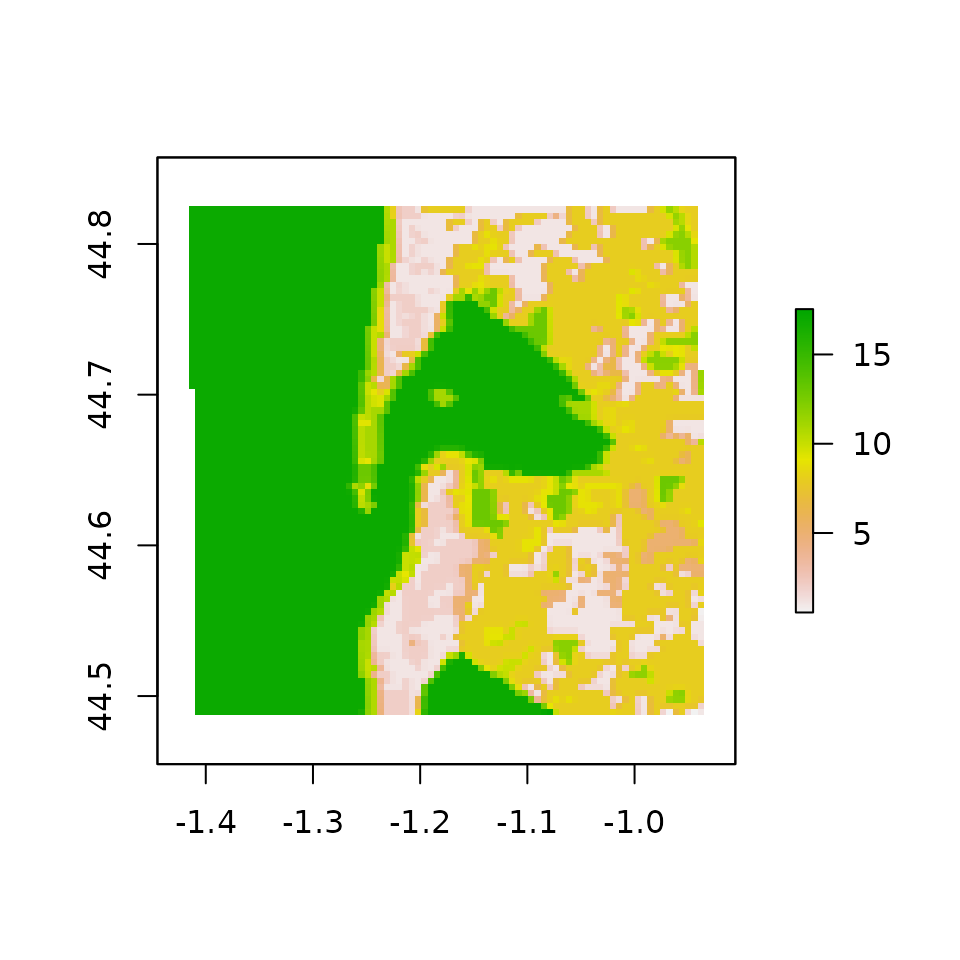
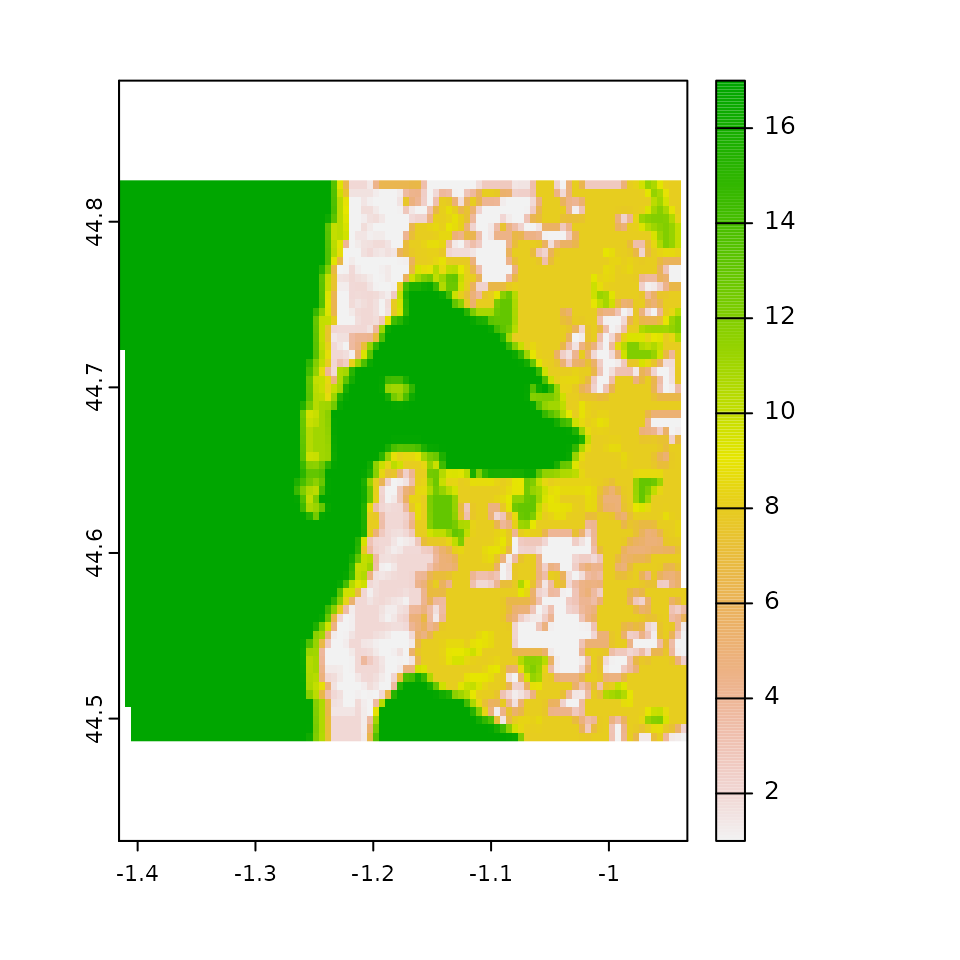
zenodo upload

diff --git a/docs/index.html b/docs/index.html
@@ -48,7 +48,7 @@
         <a class="external-link hidden-md hidden-lg" href="https://bluegreenlabs.org">
           <img src="https://bluegreenlabs.org/img/logo.png" id="hexlogo" alt="bluegreen labs"></a>
         <a class="navbar-brand" href="index.html">
-           <i>MODISTools <small>v1.1.3</small></i>
+           <i>MODISTools <small>v1.1.4</small></i>
         </a>
       </div>
     </div>
@@ -95,10 +95,12 @@
 <div class="page-header"><h1 id="modistools-">MODISTools <a href="https://github.com/ropensci/MODISTools" class="external-link"><img src="https://raw.githubusercontent.com/bluegreen-labs/MODISTools/master/MODISTools-logo.png" align="right" height="139"></a>
 <a class="anchor" aria-label="anchor" href="#modistools-"></a>
 </h1></div>
-<!-- badges: start -->
-
-<p>Programmatic interface to the <a href="https://modis.ornl.gov/data/modis_webservice.html" class="external-link">‘MODIS Land Products Subsets’ web services</a>. Allows for easy downloads of <a href="http://modis.gsfc.nasa.gov/" class="external-link">‘MODIS’</a> time series directly to your R workspace or your computer. When using the package please cite the manuscript as referenced below. Keep in mind that the original manuscript describes versions prior to release 1.0 of the package. Functions described in this manuscript do not exist in the current package, please consult <a href="https://bluegreen-labs.github.io/MODISTools/" class="external-link">the documentation</a> to find matching functionality.</p>
-<p>Please cite the package in your work as: &gt; Hufkens (2022). The MODISTools package: an interface to the MODIS Land Products Subsets Web Services <a href="https://github.com/bluegreen-labs/MODISTools" class="external-link uri">https://github.com/bluegreen-labs/MODISTools</a></p>
+<p><a href="https://github.com/bluegreen-labs/MODISTools/actions" class="external-link"><img src="https://github.com/bluegreen-labs/MODISTools/workflows/R-CMD-check/badge.svg" alt="R build status"></a> <a href="https://app.codecov.io/gh/bluegreen-labs/MODISTools/tree/main/R" class="external-link"><img src="https://codecov.io/gh/bluegreen-labs/MODISTools/branch/main/graph/badge.svg" alt="codecov"></a> <img src="https://www.r-pkg.org/badges/version/MODISTools" alt="Status"><img src="https://cranlogs.r-pkg.org/badges/grand-total/MODISTools" alt="Downloads"><a href="https://doi.org/10.5281/zenodo.7551165" class="external-link"><img src="https://zenodo.org/badge/DOI/10.5281/zenodo.7551165.svg" alt="DOI"></a></p>
+<p>Programmatic interface to the <a href="https://modis.ornl.gov/data/modis_webservice.html" class="external-link">‘MODIS Land Products Subsets’ web services</a>. Allows for easy downloads of <a href="https://modis.gsfc.nasa.gov/" class="external-link">‘MODIS’</a> time series directly to your R workspace or your computer. When using the package please cite the manuscript as referenced below. Keep in mind that the original manuscript describes versions prior to release 1.0 of the package. Functions described in this manuscript do not exist in the current package, please consult <a href="https://bluegreen-labs.github.io/MODISTools/" class="external-link">the documentation</a> to find matching functionality.</p>
+<p>Please cite the package in your work as:</p>
+<blockquote>
+<p>Koen Hufkens. (2023). bluegreen-labs/MODISTools: MODISTools v1.1.4 (CRAN release) (v1.1.4). Zenodo. <a href="https://doi.org/10.5281/zenodo.7551164" class="external-link uri">https://doi.org/10.5281/zenodo.7551164</a></p>
+</blockquote>
 <div class="section level2">
 <h2 id="installation">Installation<a class="anchor" aria-label="anchor" href="#installation"></a>
 </h2>
@@ -215,30 +217,7 @@ detailed parameter description (click to expand)
 <span>                    site_name <span class="op">=</span> <span class="st">"testsite"</span>,</span>
 <span>                    internal <span class="op">=</span> <span class="cn">TRUE</span>,</span>
 <span>                    progress <span class="op">=</span> <span class="cn">FALSE</span><span class="op">)</span></span>
-<span><span class="fu"><a href="https://rdrr.io/r/base/print.html" class="external-link">print</a></span><span class="op">(</span><span class="fu"><a href="https://rdrr.io/r/utils/str.html" class="external-link">str</a></span><span class="op">(</span><span class="va">subset</span><span class="op">)</span><span class="op">)</span></span>
-<span><span class="co">#&gt; 'data.frame':    36 obs. of  21 variables:</span></span>
-<span><span class="co">#&gt;  $ xllcorner    : chr  "-9370963.05" "-9370963.05" "-9370963.05" "-9370963.05" ...</span></span>
-<span><span class="co">#&gt;  $ yllcorner    : chr  "4445948.79" "4445948.79" "4445948.79" "4445948.79" ...</span></span>
-<span><span class="co">#&gt;  $ cellsize     : chr  "926.625433055834" "926.625433055834" "926.625433055834" "926.625433055834" ...</span></span>
-<span><span class="co">#&gt;  $ nrows        : int  3 3 3 3 3 3 3 3 3 3 ...</span></span>
-<span><span class="co">#&gt;  $ ncols        : int  3 3 3 3 3 3 3 3 3 3 ...</span></span>
-<span><span class="co">#&gt;  $ band         : chr  "LST_Day_1km" "LST_Day_1km" "LST_Day_1km" "LST_Day_1km" ...</span></span>
-<span><span class="co">#&gt;  $ units        : chr  "Kelvin" "Kelvin" "Kelvin" "Kelvin" ...</span></span>
-<span><span class="co">#&gt;  $ scale        : chr  "0.02" "0.02" "0.02" "0.02" ...</span></span>
-<span><span class="co">#&gt;  $ latitude     : num  40 40 40 40 40 40 40 40 40 40 ...</span></span>
-<span><span class="co">#&gt;  $ longitude    : num  -110 -110 -110 -110 -110 -110 -110 -110 -110 -110 ...</span></span>
-<span><span class="co">#&gt;  $ site         : chr  "testsite" "testsite" "testsite" "testsite" ...</span></span>
-<span><span class="co">#&gt;  $ product      : chr  "MOD11A2" "MOD11A2" "MOD11A2" "MOD11A2" ...</span></span>
-<span><span class="co">#&gt;  $ start        : chr  "2004-01-01" "2004-01-01" "2004-01-01" "2004-01-01" ...</span></span>
-<span><span class="co">#&gt;  $ end          : chr  "2004-02-01" "2004-02-01" "2004-02-01" "2004-02-01" ...</span></span>
-<span><span class="co">#&gt;  $ complete     : logi  TRUE TRUE TRUE TRUE TRUE TRUE ...</span></span>
-<span><span class="co">#&gt;  $ modis_date   : chr  "A2004001" "A2004009" "A2004017" "A2004025" ...</span></span>
-<span><span class="co">#&gt;  $ calendar_date: chr  "2004-01-01" "2004-01-09" "2004-01-17" "2004-01-25" ...</span></span>
-<span><span class="co">#&gt;  $ tile         : chr  "h09v05" "h09v05" "h09v05" "h09v05" ...</span></span>
-<span><span class="co">#&gt;  $ proc_date    : chr  "2020168005635" "2020168010833" "2020168012220" "2020168013617" ...</span></span>
-<span><span class="co">#&gt;  $ pixel        : int  1 1 1 1 2 2 2 2 3 3 ...</span></span>
-<span><span class="co">#&gt;  $ value        : int  13148 13160 13398 13412 13153 13140 13370 13388 13131 13096 ...</span></span>
-<span><span class="co">#&gt; NULL</span></span></code></pre></div>
+<span><span class="fu"><a href="https://rdrr.io/r/base/print.html" class="external-link">print</a></span><span class="op">(</span><span class="fu"><a href="https://rdrr.io/r/utils/str.html" class="external-link">str</a></span><span class="op">(</span><span class="va">subset</span><span class="op">)</span><span class="op">)</span></span></code></pre></div>
 <p>The output format is a <em>tidy</em> data frame, as shown above. When witten to a csv with the parameter <code>internal = FALSE</code> this will result in a flat file on disk.</p>
 <p>Note that when a a region is defined using km_lr and km_ab multiple pixels might be returned. These are indexed using the <code>pixel</code> column in the data frame containing the time series data. The remote sensing values are listed in the <code>value</code> column. When no band is specified all bands of a given product are returned, be mindful of the fact that different bands might require different multipliers to represent their true values. To list all available products, bands for particular products and temporal coverage see function descriptions below.</p>
 </div>
@@ -262,30 +241,7 @@ detailed parameter description (click to expand)
 <span>                     start <span class="op">=</span> <span class="st">"2004-01-01"</span>,</span>
 <span>                     end <span class="op">=</span> <span class="st">"2004-02-01"</span><span class="op">)</span></span>
 <span></span>
-<span><span class="fu"><a href="https://rdrr.io/r/base/print.html" class="external-link">print</a></span><span class="op">(</span><span class="fu"><a href="https://rdrr.io/r/utils/str.html" class="external-link">str</a></span><span class="op">(</span><span class="va">subsets</span><span class="op">)</span><span class="op">)</span></span>
-<span><span class="co">#&gt; 'data.frame':    8 obs. of  21 variables:</span></span>
-<span><span class="co">#&gt;  $ xllcorner    : chr  "-9370036.35" "-9370036.35" "-9370036.35" "-9370036.35" ...</span></span>
-<span><span class="co">#&gt;  $ yllcorner    : chr  "4446875.49" "4446875.49" "4446875.49" "4446875.49" ...</span></span>
-<span><span class="co">#&gt;  $ cellsize     : chr  "926.625433055834" "926.625433055834" "926.625433055834" "926.625433055834" ...</span></span>
-<span><span class="co">#&gt;  $ nrows        : int  1 1 1 1 1 1 1 1</span></span>
-<span><span class="co">#&gt;  $ ncols        : int  1 1 1 1 1 1 1 1</span></span>
-<span><span class="co">#&gt;  $ band         : chr  "LST_Day_1km" "LST_Day_1km" "LST_Day_1km" "LST_Day_1km" ...</span></span>
-<span><span class="co">#&gt;  $ units        : chr  "Kelvin" "Kelvin" "Kelvin" "Kelvin" ...</span></span>
-<span><span class="co">#&gt;  $ scale        : chr  "0.02" "0.02" "0.02" "0.02" ...</span></span>
-<span><span class="co">#&gt;  $ latitude     : num  40 40 40 40 40 40 40 40</span></span>
-<span><span class="co">#&gt;  $ longitude    : num  -110 -110 -110 -110 -110 -110 -110 -110</span></span>
-<span><span class="co">#&gt;  $ site         : chr  "test 1" "test 1" "test 1" "test 1" ...</span></span>
-<span><span class="co">#&gt;  $ product      : chr  "MOD11A2" "MOD11A2" "MOD11A2" "MOD11A2" ...</span></span>
-<span><span class="co">#&gt;  $ start        : chr  "2004-01-01" "2004-01-01" "2004-01-01" "2004-01-01" ...</span></span>
-<span><span class="co">#&gt;  $ end          : chr  "2004-02-01" "2004-02-01" "2004-02-01" "2004-02-01" ...</span></span>
-<span><span class="co">#&gt;  $ complete     : logi  TRUE TRUE TRUE TRUE TRUE TRUE ...</span></span>
-<span><span class="co">#&gt;  $ modis_date   : chr  "A2004001" "A2004009" "A2004017" "A2004025" ...</span></span>
-<span><span class="co">#&gt;  $ calendar_date: chr  "2004-01-01" "2004-01-09" "2004-01-17" "2004-01-25" ...</span></span>
-<span><span class="co">#&gt;  $ tile         : chr  "h09v05" "h09v05" "h09v05" "h09v05" ...</span></span>
-<span><span class="co">#&gt;  $ proc_date    : chr  "2020168005635" "2020168010833" "2020168012220" "2020168013617" ...</span></span>
-<span><span class="co">#&gt;  $ pixel        : int  1 1 1 1 1 1 1 1</span></span>
-<span><span class="co">#&gt;  $ value        : int  13129 13102 13343 13364 13129 13102 13343 13364</span></span>
-<span><span class="co">#&gt; NULL</span></span></code></pre></div>
+<span><span class="fu"><a href="https://rdrr.io/r/base/print.html" class="external-link">print</a></span><span class="op">(</span><span class="fu"><a href="https://rdrr.io/r/utils/str.html" class="external-link">str</a></span><span class="op">(</span><span class="va">subsets</span><span class="op">)</span><span class="op">)</span></span></code></pre></div>
 </div>
 <div class="section level3">
 <h3 id="listing-products">Listing products<a class="anchor" aria-label="anchor" href="#listing-products"></a>
@@ -293,28 +249,7 @@ detailed parameter description (click to expand)
 <p>To list all available products use the mt_products() function.</p>
 <div class="sourceCode" id="cb6"><pre class="downlit sourceCode r">
 <code class="sourceCode R"><span><span class="va">products</span> <span class="op">&lt;-</span> <span class="fu"><a href="reference/mt_products.html">mt_products</a></span><span class="op">(</span><span class="op">)</span></span>
-<span><span class="fu"><a href="https://rdrr.io/r/utils/head.html" class="external-link">head</a></span><span class="op">(</span><span class="va">products</span><span class="op">)</span></span>
-<span><span class="co">#&gt;        product</span></span>
-<span><span class="co">#&gt; 1       Daymet</span></span>
-<span><span class="co">#&gt; 2 ECO4ESIPTJPL</span></span>
-<span><span class="co">#&gt; 3      ECO4WUE</span></span>
-<span><span class="co">#&gt; 4       GEDI03</span></span>
-<span><span class="co">#&gt; 5     GEDI04_B</span></span>
-<span><span class="co">#&gt; 6      MCD12Q1</span></span>
-<span><span class="co">#&gt;                                                                          description</span></span>
-<span><span class="co">#&gt; 1 Daily Surface Weather Data (Daymet) on a 1-km Grid for North America, Version 4 R1</span></span>
-<span><span class="co">#&gt; 2               ECOSTRESS Evaporative Stress Index PT-JPL (ESI) Daily L4 Global 70 m</span></span>
-<span><span class="co">#&gt; 3                          ECOSTRESS Water Use Efficiency (WUE) Daily L4 Global 70 m</span></span>
-<span><span class="co">#&gt; 4                GEDI Gridded Land Surface Metrics (LSM) L3 1km EASE-Grid, Version 2</span></span>
-<span><span class="co">#&gt; 5       GEDI Gridded Aboveground Biomass Density (AGBD) L4B 1km EASE-Grid, Version 2</span></span>
-<span><span class="co">#&gt; 6              MODIS/Terra+Aqua Land Cover Type (LC) Yearly L3 Global 500 m SIN Grid</span></span>
-<span><span class="co">#&gt;   frequency resolution_meters</span></span>
-<span><span class="co">#&gt; 1     1 day              1000</span></span>
-<span><span class="co">#&gt; 2    Varies                70</span></span>
-<span><span class="co">#&gt; 3    Varies                70</span></span>
-<span><span class="co">#&gt; 4  One time              1000</span></span>
-<span><span class="co">#&gt; 5  One time              1000</span></span>
-<span><span class="co">#&gt; 6    1 year               500</span></span></code></pre></div>
+<span><span class="fu"><a href="https://rdrr.io/r/utils/head.html" class="external-link">head</a></span><span class="op">(</span><span class="va">products</span><span class="op">)</span></span></code></pre></div>
 </div>
 <div class="section level3">
 <h3 id="listing-bands">Listing bands<a class="anchor" aria-label="anchor" href="#listing-bands"></a>
@@ -322,21 +257,7 @@ detailed parameter description (click to expand)
 <p>To list all available bands for a given product use the mt_bands() function.</p>
 <div class="sourceCode" id="cb7"><pre class="downlit sourceCode r">
 <code class="sourceCode R"><span><span class="va">bands</span> <span class="op">&lt;-</span> <span class="fu"><a href="reference/mt_bands.html">mt_bands</a></span><span class="op">(</span>product <span class="op">=</span> <span class="st">"MOD11A2"</span><span class="op">)</span></span>
-<span><span class="fu"><a href="https://rdrr.io/r/utils/head.html" class="external-link">head</a></span><span class="op">(</span><span class="va">bands</span><span class="op">)</span></span>
-<span><span class="co">#&gt;               band                          description valid_range fill_value</span></span>
-<span><span class="co">#&gt; 1   Clear_sky_days               Day clear-sky coverage    1 to 255          0</span></span>
-<span><span class="co">#&gt; 2 Clear_sky_nights             Night clear-sky coverage    1 to 255          0</span></span>
-<span><span class="co">#&gt; 3    Day_view_angl View zenith angle of day observation    0 to 130        255</span></span>
-<span><span class="co">#&gt; 4    Day_view_time        Local time of day observation    0 to 240        255</span></span>
-<span><span class="co">#&gt; 5          Emis_31                   Band 31 emissivity    1 to 255          0</span></span>
-<span><span class="co">#&gt; 6          Emis_32                   Band 32 emissivity    1 to 255          0</span></span>
-<span><span class="co">#&gt;    units scale_factor add_offset</span></span>
-<span><span class="co">#&gt; 1   &lt;NA&gt;         &lt;NA&gt;       &lt;NA&gt;</span></span>
-<span><span class="co">#&gt; 2   &lt;NA&gt;         &lt;NA&gt;       &lt;NA&gt;</span></span>
-<span><span class="co">#&gt; 3 degree            1        -65</span></span>
-<span><span class="co">#&gt; 4    hrs          0.1          0</span></span>
-<span><span class="co">#&gt; 5   &lt;NA&gt;        0.002       0.49</span></span>
-<span><span class="co">#&gt; 6   &lt;NA&gt;        0.002       0.49</span></span></code></pre></div>
+<span><span class="fu"><a href="https://rdrr.io/r/utils/head.html" class="external-link">head</a></span><span class="op">(</span><span class="va">bands</span><span class="op">)</span></span></code></pre></div>
 </div>
 <div class="section level3">
 <h3 id="listing-dates">listing dates<a class="anchor" aria-label="anchor" href="#listing-dates"></a>
@@ -344,14 +265,7 @@ detailed parameter description (click to expand)
 <p>To list all available dates (temporal coverage) for a given product and location use the mt_dates() function.</p>
 <div class="sourceCode" id="cb8"><pre class="downlit sourceCode r">
 <code class="sourceCode R"><span><span class="va">dates</span> <span class="op">&lt;-</span> <span class="fu"><a href="reference/mt_dates.html">mt_dates</a></span><span class="op">(</span>product <span class="op">=</span> <span class="st">"MOD11A2"</span>, lat <span class="op">=</span> <span class="fl">42</span>, lon <span class="op">=</span> <span class="op">-</span><span class="fl">110</span><span class="op">)</span></span>
-<span><span class="fu"><a href="https://rdrr.io/r/utils/head.html" class="external-link">head</a></span><span class="op">(</span><span class="va">dates</span><span class="op">)</span></span>
-<span><span class="co">#&gt;   modis_date calendar_date</span></span>
-<span><span class="co">#&gt; 1   A2000049    2000-02-18</span></span>
-<span><span class="co">#&gt; 2   A2000057    2000-02-26</span></span>
-<span><span class="co">#&gt; 3   A2000065    2000-03-05</span></span>
-<span><span class="co">#&gt; 4   A2000073    2000-03-13</span></span>
-<span><span class="co">#&gt; 5   A2000081    2000-03-21</span></span>
-<span><span class="co">#&gt; 6   A2000089    2000-03-29</span></span></code></pre></div>
+<span><span class="fu"><a href="https://rdrr.io/r/utils/head.html" class="external-link">head</a></span><span class="op">(</span><span class="va">dates</span><span class="op">)</span></span></code></pre></div>
 </div>
 </div>
 <div class="section level2">
@@ -402,13 +316,7 @@ detailed parameter description (click to expand)
 </ul>
 </div>
 
-<div class="dev-status">
-<h2 data-toc-skip>Dev status</h2>
-<ul class="list-unstyled">
-<li><a href="https://github.com/bluegreen-labs/MODISTools/actions" class="external-link"><img src="https://github.com/bluegreen-labs/MODISTools/workflows/R-CMD-check/badge.svg" alt="R build status"></a></li>
-<li><a href="https://codecov.io/gh/bluegreen-labs/MODISTools" class="external-link"><img src="https://codecov.io/gh/bluegreen-labs/MODISTools/branch/main/graph/badge.svg" alt="codecov"></a></li>
-</ul>
-</div>
+
 
   </div>
 </div>

diff --git a/docs/articles/modistools-vignette.html b/docs/articles/modistools-vignette.html
@@ -44,7 +44,7 @@
         <a class="external-link hidden-md hidden-lg" href="https://bluegreenlabs.org">
           <img src="https://bluegreenlabs.org/img/logo.png" id="hexlogo" alt="bluegreen labs"></a>
         <a class="navbar-brand" href="../index.html">
-           <i>MODISTools <small>v1.1.3</small></i>
+           <i>MODISTools <small>v1.1.4</small></i>
         </a>
       </div>
     </div>
@@ -92,7 +92,7 @@
                         <h4 data-toc-skip class="author">Koen
 Hufkens</h4>
             
-            <h4 data-toc-skip class="date">2023-01-09</h4>
+            <h4 data-toc-skip class="date">2023-01-19</h4>
       
       <small class="dont-index">Source: <a href="https://github.com/bluegreen-labs/MODISTools/blob/HEAD/vignettes/modistools-vignette.Rmd" class="external-link"><code>vignettes/modistools-vignette.Rmd</code></a></small>
       <div class="hidden name"><code>modistools-vignette.Rmd</code></div>
@@ -444,11 +444,10 @@ sinusoidal ones).</p>
 <span><span class="co"># the data is reprojected to lat / lon if FALSE</span></span>
 <span><span class="co"># the data is shown in its original sinuidal projection</span></span>
 <span><span class="va">LC_r</span> <span class="op">&lt;-</span> <span class="fu"><a href="../reference/mt_to_terra.html">mt_to_terra</a></span><span class="op">(</span>df <span class="op">=</span> <span class="va">arcachon_lc</span>, reproject <span class="op">=</span> <span class="cn">TRUE</span><span class="op">)</span></span>
-<span><span class="co">#&gt; Error: [write] unknown option(s): crs</span></span>
 <span></span>
 <span><span class="co"># plot the raster data as a map</span></span>
-<span><span class="fu"><a href="https://rdrr.io/r/graphics/plot.default.html" class="external-link">plot</a></span><span class="op">(</span><span class="va">LC_r</span><span class="op">)</span></span>
-<span><span class="co">#&gt; Error in h(simpleError(msg, call)): error in evaluating the argument 'x' in selecting a method for function 'plot': object 'LC_r' not found</span></span></code></pre></div>
+<span><span class="fu"><a href="https://rdrr.io/r/graphics/plot.default.html" class="external-link">plot</a></span><span class="op">(</span><span class="va">LC_r</span><span class="op">)</span></span></code></pre></div>
+<p><img src="modistools-vignette_files/figure-html/unnamed-chunk-13-1.png" width="480"></p>
 </div>
   </div>
 

diff --git a/docs/news/index.html b/docs/news/index.html
@@ -21,7 +21,7 @@
         <a class="external-link hidden-md hidden-lg" href="https://bluegreenlabs.org">
           <img src="https://bluegreenlabs.org/img/logo.png" id="hexlogo" alt="bluegreen labs"></a>
         <a class="navbar-brand" href="../index.html">
-           <i>MODISTools <small>v1.1.3</small></i>
+           <i>MODISTools <small>v1.1.4</small></i>
         </a>
       </div>
     </div>
@@ -62,6 +62,10 @@
       <small>Source: <a href="https://github.com/bluegreen-labs/MODISTools/blob/HEAD/NEWS.md" class="external-link"><code>NEWS.md</code></a></small>
     </div>
 
+    <div class="section level2">
+<h2 class="page-header" data-toc-text="1.1.4" id="modistools-114">MODISTools 1.1.4<small>2023-01-18</small><a class="anchor" aria-label="anchor" href="#modistools-114"></a></h2>
+<ul><li>fixed mt_to_terra() reprojection issue</li>
+</ul></div>
     <div class="section level2">
 <h2 class="page-header" data-toc-text="1.1.3" id="modistools-113">MODISTools 1.1.3<small>2023-01-08</small><a class="anchor" aria-label="anchor" href="#modistools-113"></a></h2>
 <ul><li>removing {raster} dependencies</li>

diff --git a/docs/authors.html b/docs/authors.html
@@ -21,7 +21,7 @@
         <a class="external-link hidden-md hidden-lg" href="https://bluegreenlabs.org">
           <img src="https://bluegreenlabs.org/img/logo.png" id="hexlogo" alt="bluegreen labs"></a>
         <a class="navbar-brand" href="index.html">
-           <i>MODISTools <small>v1.1.3</small></i>
+           <i>MODISTools <small>v1.1.4</small></i>
         </a>
       </div>
     </div>
@@ -80,12 +80,12 @@
     </div>
 
 
-    <p>Hufkens (2022). The MODISTools package: an interface to the MODIS Land Products Subsets Web Services https://github.com/ropensci/MODISTools</p>
+    <p>Hufkens (2022). The MODISTools package: an interface to the MODIS Land Products Subsets Web Services https://github.com/bluegreen-labs/MODISTools</p>
     <pre>@Misc{,
   title = {The MODISTools package: an interface to the MODIS Land Products Subsets Web Services},
   author = {Koen Hufkens},
   year = {2022},
-  url = {https://github.com/ropensci/MODISTools},
+  url = {https://github.com/bluegreen-labs/MODISTools},
 }</pre>
 
   </div>

diff --git a/docs/reference/arcachon_lai.html b/docs/reference/arcachon_lai.html
@@ -22,7 +22,7 @@ derived from the MODIS MOD15A2H product (band Lai_500m)."><meta name="twitter:ca
         <a class="external-link hidden-md hidden-lg" href="https://bluegreenlabs.org">
           <img src="https://bluegreenlabs.org/img/logo.png" id="hexlogo" alt="bluegreen labs"></a>
         <a class="navbar-brand" href="../index.html">
-           <i>MODISTools <small>v1.1.3</small></i>
+           <i>MODISTools <small>v1.1.4</small></i>
         </a>
       </div>
     </div>

diff --git a/docs/reference/arcachon_lc.html b/docs/reference/arcachon_lc.html
@@ -22,7 +22,7 @@ derived from the MODIS MCD12Q2 product (band LC_Type1)."><meta name="twitter:car
         <a class="external-link hidden-md hidden-lg" href="https://bluegreenlabs.org">
           <img src="https://bluegreenlabs.org/img/logo.png" id="hexlogo" alt="bluegreen labs"></a>
         <a class="navbar-brand" href="../index.html">
-           <i>MODISTools <small>v1.1.3</small></i>
+           <i>MODISTools <small>v1.1.4</small></i>
         </a>
       </div>
     </div>

diff --git a/docs/reference/mt_batch_subset.html b/docs/reference/mt_batch_subset.html
@@ -22,7 +22,7 @@ at a particular location."><meta name="twitter:card" content="summary"></head><b
         <a class="external-link hidden-md hidden-lg" href="https://bluegreenlabs.org">
           <img src="https://bluegreenlabs.org/img/logo.png" id="hexlogo" alt="bluegreen labs"></a>
         <a class="navbar-brand" href="../index.html">
-           <i>MODISTools <small>v1.1.3</small></i>
+           <i>MODISTools <small>v1.1.4</small></i>
         </a>
       </div>
     </div>

diff --git a/docs/reference/mt_dates.html b/docs/reference/mt_dates.html
@@ -22,7 +22,7 @@ at a particular location."><meta name="twitter:card" content="summary"></head><b
         <a class="external-link hidden-md hidden-lg" href="https://bluegreenlabs.org">
           <img src="https://bluegreenlabs.org/img/logo.png" id="hexlogo" alt="bluegreen labs"></a>
         <a class="navbar-brand" href="../index.html">
-           <i>MODISTools <small>v1.1.3</small></i>
+           <i>MODISTools <small>v1.1.4</small></i>
         </a>
       </div>
     </div>

diff --git a/docs/reference/mt_subset.html b/docs/reference/mt_subset.html
@@ -24,7 +24,7 @@ longitude values)."><meta name="twitter:card" content="summary"></head><body dat
         <a class="external-link hidden-md hidden-lg" href="https://bluegreenlabs.org">
           <img src="https://bluegreenlabs.org/img/logo.png" id="hexlogo" alt="bluegreen labs"></a>
         <a class="navbar-brand" href="../index.html">
-           <i>MODISTools <small>v1.1.3</small></i>
+           <i>MODISTools <small>v1.1.4</small></i>
         </a>
       </div>
     </div>

diff --git a/docs/reference/mt_to_terra.html b/docs/reference/mt_to_terra.html
@@ -22,7 +22,7 @@ spatial processing and plotting."><meta name="twitter:card" content="summary"></
         <a class="external-link hidden-md hidden-lg" href="https://bluegreenlabs.org">
           <img src="https://bluegreenlabs.org/img/logo.png" id="hexlogo" alt="bluegreen labs"></a>
         <a class="navbar-brand" href="../index.html">
-           <i>MODISTools <small>v1.1.3</small></i>
+           <i>MODISTools <small>v1.1.4</small></i>
         </a>
       </div>
     </div>

diff --git a/docs/reference/sin_to_ll.html b/docs/reference/sin_to_ll.html
@@ -25,7 +25,7 @@ https://en.wikipedia.org/wiki/Sinusoidal_projection"><meta name="twitter:card" c
         <a class="external-link hidden-md hidden-lg" href="https://bluegreenlabs.org">
           <img src="https://bluegreenlabs.org/img/logo.png" id="hexlogo" alt="bluegreen labs"></a>
         <a class="navbar-brand" href="../index.html">
-           <i>MODISTools <small>v1.1.3</small></i>
+           <i>MODISTools <small>v1.1.4</small></i>
         </a>
       </div>
     </div>

diff --git a/docs/articles/index.html b/docs/articles/index.html
@@ -21,7 +21,7 @@
         <a class="external-link hidden-md hidden-lg" href="https://bluegreenlabs.org">
           <img src="https://bluegreenlabs.org/img/logo.png" id="hexlogo" alt="bluegreen labs"></a>
         <a class="navbar-brand" href="../index.html">
-           <i>MODISTools <small>v1.1.3</small></i>
+           <i>MODISTools <small>v1.1.4</small></i>
         </a>
       </div>
     </div>
